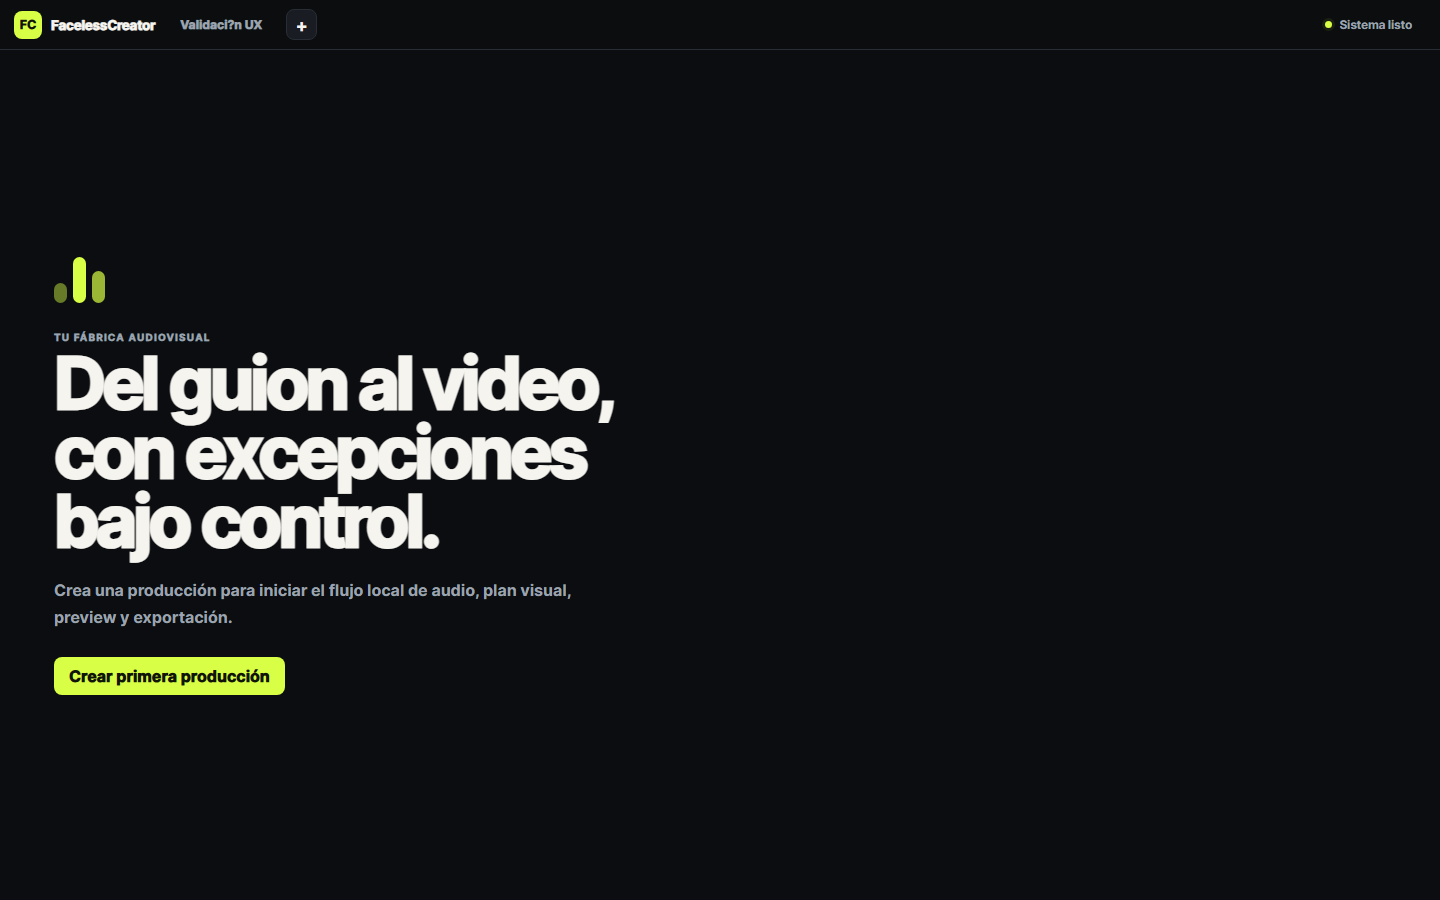
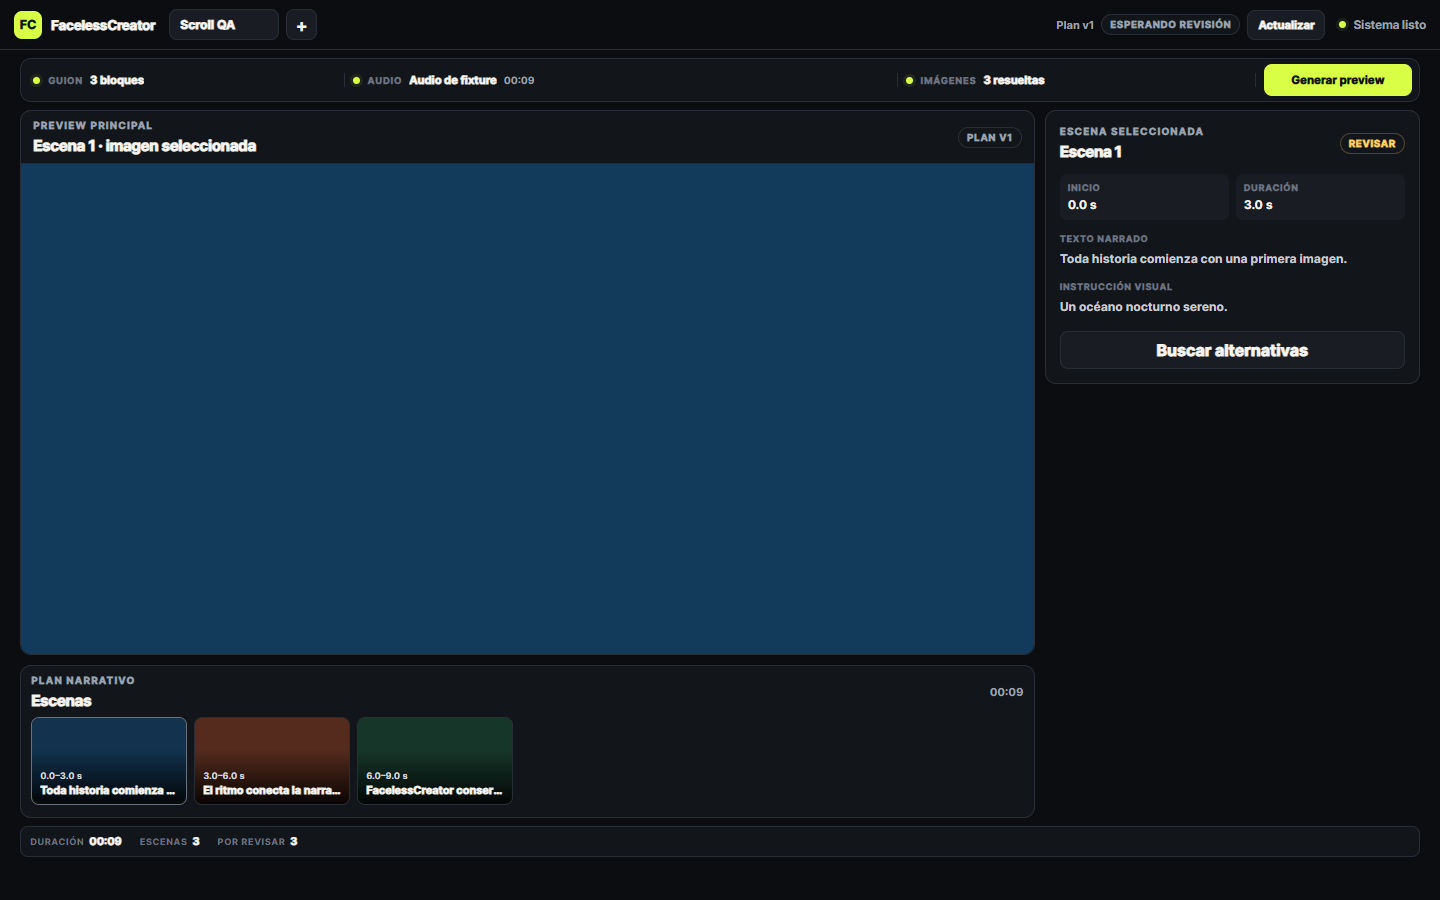
Prevent workstation scrollbars

diff --git a/src/faceless_creator/web/styles.css b/src/faceless_creator/web/styles.css
@@ -17,17 +17,18 @@
 }
 
 * { box-sizing: border-box; }
-html, body { margin: 0; min-width: 320px; min-height: 100%; background: var(--bg); color: var(--ink); }
-body { overflow-x: hidden; }
+html, body { width: 100%; height: 100%; margin: 0; min-width: 320px; overflow: hidden; background: var(--bg); color: var(--ink); }
 button, input { font: inherit; }
 button { cursor: pointer; }
 button:focus-visible, input:focus-visible, [tabindex]:focus-visible { outline: 3px solid rgba(216, 255, 69, .5); outline-offset: 2px; }
 [hidden] { display: none !important; }
 .visually-hidden { position: absolute !important; width: 1px; height: 1px; padding: 0; margin: -1px; overflow: hidden; clip: rect(0, 0, 0, 0); white-space: nowrap; border: 0; }
+.project-list, .scene-list, .inspector { scrollbar-width: none; }
+.project-list::-webkit-scrollbar, .scene-list::-webkit-scrollbar, .inspector::-webkit-scrollbar { display: none; }
 
 .skip-link { position: fixed; top: -4rem; left: 1rem; z-index: 100; background: var(--accent); color: var(--accent-ink); padding: .75rem 1rem; border-radius: .5rem; }
 .skip-link:focus { top: 1rem; }
-.app-shell { min-height: 100vh; display: grid; grid-template-rows: 50px minmax(0, 1fr); }
+.app-shell { width: 100%; height: 100vh; overflow: hidden; display: grid; grid-template-rows: 50px minmax(0, 1fr); }
 .topbar { display: grid; grid-template-columns: auto minmax(170px, 1fr) auto auto; align-items: center; gap: 14px; padding: 0 14px; border-bottom: 1px solid var(--line); background: rgba(11, 13, 16, .97); }
 .brand, .project-switcher, .project-context, .system-status, .preview-toolbar, .preview-toolbar-actions, .inspector-heading, .filmstrip-heading, .dialog-heading, .dialog-actions { display: flex; align-items: center; }
 .brand { gap: 9px; }
@@ -57,7 +58,7 @@ button:focus-visible, input:focus-visible, [tabindex]:focus-visible { outline: 3
 .secondary-button:hover, .compact-button:hover, .icon-button:hover { border-color: #515965; }
 button:disabled { cursor: not-allowed; opacity: .48; }
 
-.workspace { min-width: 0; min-height: 0; }
+.workspace { min-width: 0; min-height: 0; overflow: hidden; }
 .empty-state { min-height: calc(100vh - 50px); display: grid; place-content: center; justify-items: start; max-width: 760px; padding: 54px; }
 .empty-state h1 { margin: 0; font-size: clamp(2.5rem, 5vw, 5rem); line-height: .96; letter-spacing: -.06em; }
 .empty-state > p:not(.eyebrow) { max-width: 570px; margin: 22px 0 27px; color: var(--muted); line-height: 1.65; }
@@ -67,7 +68,7 @@ button:disabled { cursor: not-allowed; opacity: .48; }
 .empty-art span:nth-child(2) { height: 46px; }
 .empty-art span:nth-child(3) { height: 32px; opacity: .7; }
 
-.project-view { max-width: 1760px; margin: auto; padding: 8px clamp(10px, 1.4vw, 22px) 34px; }
+.project-view { width: 100%; height: 100%; max-width: 1760px; margin: auto; padding: 8px clamp(10px, 1.4vw, 22px); overflow: hidden; }
 .eyebrow { margin: 0 0 5px; color: var(--muted); font-size: .62rem; font-weight: 800; letter-spacing: .12em; text-transform: uppercase; }
 .panel, .preview-card, .filmstrip-card { border: 1px solid var(--line); border-radius: 11px; background: var(--surface); }
 .state-pill, .mono-badge, .review-badge { padding: 4px 8px; border: 1px solid var(--line); border-radius: 99px; color: var(--muted); background: var(--surface); font-size: .61rem; font-weight: 800; letter-spacing: .07em; text-transform: uppercase; white-space: nowrap; }
@@ -94,7 +95,7 @@ button:disabled { cursor: not-allowed; opacity: .48; }
 .preview-toolbar { min-height: 48px; justify-content: space-between; gap: 12px; padding: 8px 12px; border-bottom: 1px solid var(--line); }
 .preview-toolbar h2, .filmstrip-heading h2, .inspector h2 { margin: 0; font-size: .95rem; letter-spacing: -.025em; }
 .preview-toolbar-actions { gap: 7px; }
-.visual-preview { position: relative; display: grid; height: clamp(300px, calc(100vh - 382px), 720px); place-items: center; overflow: hidden; background: #050607; }
+.visual-preview { position: relative; display: grid; height: clamp(240px, calc(100vh - 410px), 720px); place-items: center; overflow: hidden; background: #050607; }
 .visual-preview img, .visual-preview video { width: 100%; height: 100%; object-fit: contain; }
 .preview-placeholder { position: absolute; inset: 0; display: grid; place-content: center; justify-items: center; padding: 24px; text-align: center; background: radial-gradient(circle at center, #20262b 0, #080a0d 68%); }
 .preview-placeholder strong { margin-top: 12px; }

diff --git a/tests/test_vertical_density.py b/tests/test_vertical_density.py
@@ -12,11 +12,15 @@ class VerticalDensityTests(unittest.TestCase):
         styles = STYLES.read_text(encoding="utf-8")
 
         self.assertIn("grid-template-rows: 50px", styles)
-        self.assertIn(".project-view { max-width: 1760px; margin: auto; padding: 8px", styles)
+        self.assertIn("html, body { width: 100%; height: 100%;", styles)
+        self.assertIn("overflow: hidden", styles)
+        self.assertIn(".app-shell { width: 100%; height: 100vh; overflow: hidden", styles)
+        self.assertIn(".project-list, .scene-list, .inspector { scrollbar-width: none; }", styles)
+        self.assertIn(".project-view { width: 100%; height: 100%;", styles)
         self.assertIn(".input-strip { min-height: 44px", styles)
         self.assertIn(".preview-toolbar { min-height: 48px", styles)
         self.assertIn(".operation-bar { min-height: 31px", styles)
-        self.assertIn("height: clamp(300px, calc(100vh - 382px), 720px)", styles)
+        self.assertIn("height: clamp(240px, calc(100vh - 410px), 720px)", styles)
         self.assertIn("object-fit: contain", styles)
 
 

diff --git a/docs/PROJECT_STATUS.md b/docs/PROJECT_STATUS.md
@@ -1,10 +1,10 @@
 # Estado del proyecto
 
 - **Fase actual:** shell desktop Tauri completado, instalado y listo para evaluación humana.
-- **Última funcionalidad:** workstation supervisada con preview adaptable a la altura disponible, medios completos sin recorte, inspector contextual, filmstrip visible y una acción primaria por estado.
+- **Última funcionalidad:** workstation supervisada contenida íntegramente en el viewport, sin barras de desplazamiento visibles globales o internas, con medios completos sin recorte.
 - **Existe:** Tauri/WebView2, SQLite, jobs/recovery, API loopback dinámica, FFmpeg integrado, UI compacta, importación de audio, fixture 1920×1080, preview, reemplazo, export, tests Python/Rust y build NSIS.
 - **Instalación validada:** `C:\Users\jose\AppData\Local\FacelessCreator\FacelessCreator.exe`.
[2 lines of base64/hex data omitted]
 - **Lifecycle:** puerto libre; espera de salud; cero navegador; backend hijo directo; monitor de PID padre; cierre validado sin procesos ni puertos huérfanos.
 - **Datos locales:** `%LOCALAPPDATA%\FacelessCreator\UserData`, separados del directorio de instalación.
 - **No existe:** importación de guion real, Visual Library real, voz, proveedor IA, firma de código o CI.
